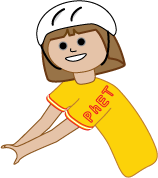
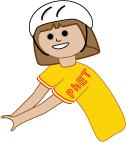
Fixed an issue with the size of the biker's body.

diff --git a/simulations-java/simulations/energy-forms-and-changes/src/edu/colorado/phet/energyformsandchanges/energysystems/model/Biker.java b/simulations-java/simulations/energy-forms-and-changes/src/edu/colorado/phet/energyformsandchanges/energysystems/model/Biker.java
@@ -49,7 +49,7 @@ public class Biker extends EnergySource {
     // with very different scales.
     public static final ModelElementImage FRAME_IMAGE = new ModelElementImage( BICYCLE_FRAME_2, FRAME_CENTER_OFFSET );
     public static final ModelElementImage REAR_WHEEL_SPOKES_IMAGE = new ModelElementImage( BICYCLE_SPOKES, FRAME_CENTER_OFFSET.plus( new Vector2D( 0.035, -0.020 ) ) );
-    public static final ModelElementImage RIDER_UPPER_BODY_IMAGE = new ModelElementImage( BICYCLE_RIDER, FRAME_CENTER_OFFSET.plus( new Vector2D( 0.003, 0.068 ) ) );
+    public static final ModelElementImage RIDER_UPPER_BODY_IMAGE = new ModelElementImage( BICYCLE_RIDER, FRAME_CENTER_OFFSET.plus( new Vector2D( -0.0025, 0.062 ) ) );
 
     private static final Vector2D LEG_IMAGE_OFFSET = new Vector2D( 0.009, 0.002 );
 
